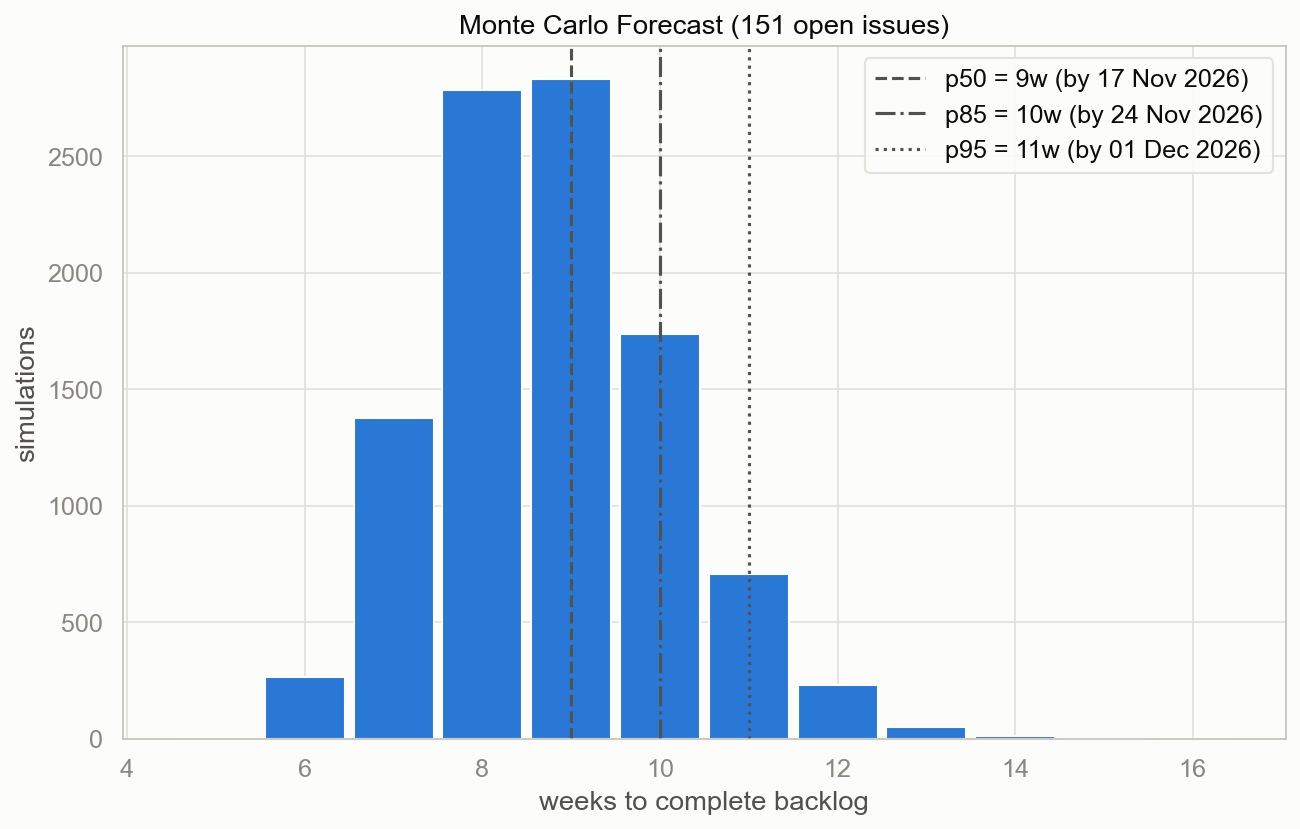
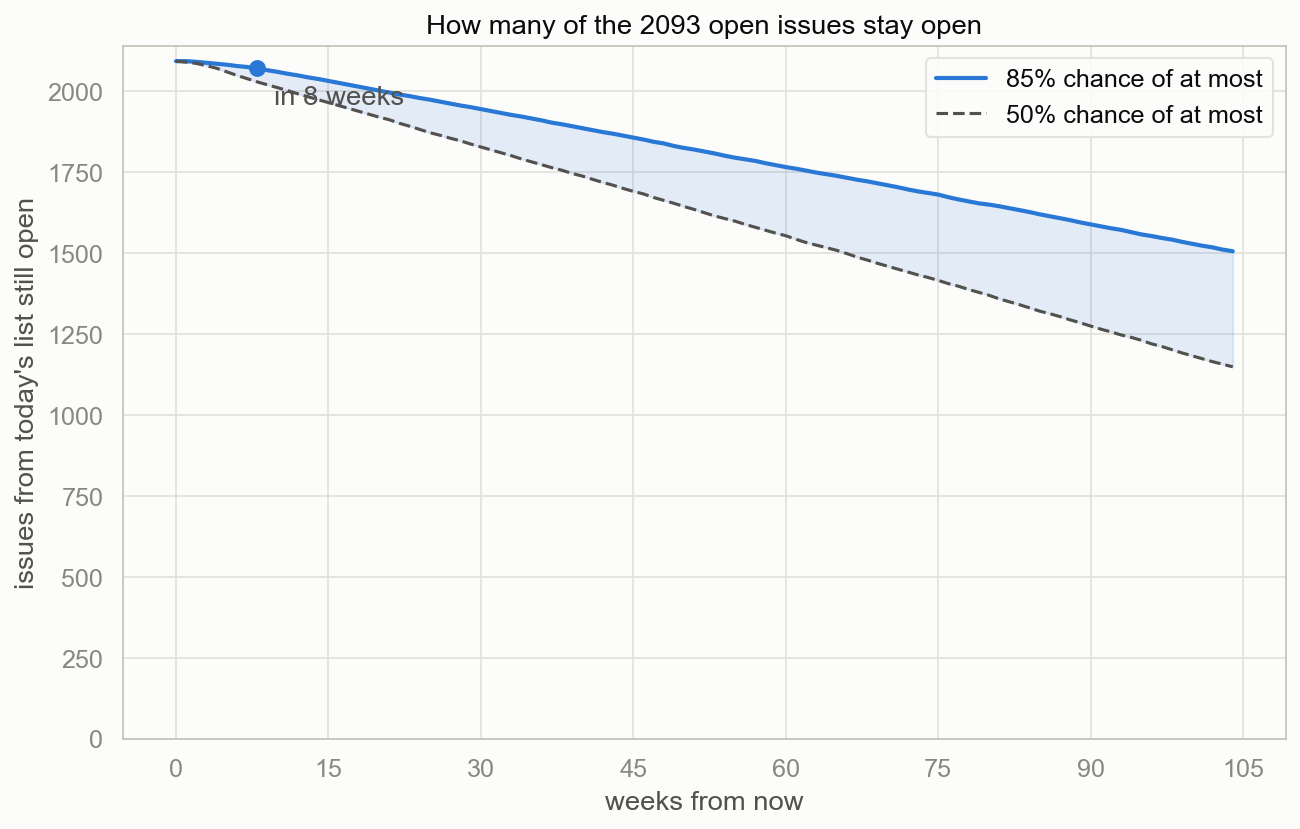
docs(readme): lead with the trusted forecast, method behind details

diff --git a/README.md b/README.md
@@ -1,79 +1,41 @@
-# Metrics - Jira analytics for engineering teams
+# Metrics - a Jira delivery forecast that honestly says how far you can trust it
 
 [![Build Status](https://github.com/smirnoffmg/metrics/actions/workflows/test.yaml/badge.svg)](https://github.com/smirnoffmg/metrics/actions)
-[![License](https://img.shields.io/badge/license-MIT-blue.svg)](LICENSE)
+[![License](https://img.shields.io/badge/license-GPL--3.0-blue.svg)](LICENSE)
 
-See how work really flows through your team - straight from Jira, in one command.
+Most forecasts give you a date. This one tells you how much of your open work gets done, replays that same promise from every past Monday, and says in plain words how often it came true - before you commit to it. Straight from Jira, in one command, into one self-contained `report.html` you can send to anyone. No servers, nothing leaves your machine.
 
-**Metrics** pulls your issues and turns them into clear charts plus a single shareable report:
+## What it tells you
 
-- **How fast are we?** Lead time, cycle time, and a percentile view - "85% of our tickets finish within N days"
-- **When will it be done?** A Monte Carlo forecast for your open backlog, replayed against the past to show how often its promises came true
-- **Where does work get stuck?** Time per status, aging work-in-progress, and a cumulative flow diagram
-- **Who carries the load?** Time in flight per person and how often tickets change hands
-- **How much do we ship?** Weekly throughput and how often tickets bounce back to testing
+Every quote below is copied from the report on two years of the public [Hibernate ORM](https://hibernate.atlassian.net) and [Apache Kafka](https://issues.apache.org/jira) trackers.
 
-Everything lands in `output/` as PNG charts and one self-contained `report.html` you can send to anyone - no servers, no setup, nothing leaves your machine. The report is interactive: headline numbers with trend arrows, hover any dot for the ticket details, click it to open the issue in Jira, and a ready-made list of the longest-waiting tickets.
+**1. How much of our open work gets done, and when?**
 
-## Real examples
+> At least 22 of the 2093 open issues will be done in 8 weeks, by 28 Nov 2026 (85% chance).
+>
+> *- Hibernate*
 
-Every chart below comes from real public projects - the [Hibernate ORM](https://hibernate.atlassian.net) and [Apache Kafka](https://issues.apache.org/jira) issue trackers.
+The promise counts only issues open today. New work keeps arriving and takes its share of the team, so the forecast scales throughput by the share of past finishes that went to issues already open, measured over the same number of weeks.
 
-### When will it be done?
+**2. Can I trust that number?**
 
-**Monte Carlo forecast.** 151 open Hibernate issues at the pace of the last 12 finished weeks: half the simulations clear them by 17 November 2026, 85% by 24 November - real dates, not story points.
+> Past 8-week promises like this one held only 9 of 11 times, fewer than the 85% promised.
+>
+> Treat the number as optimistic and commit to fewer, but don't promise a date for all of it; scope a release with --forecast-jql.
+>
+> *- Hibernate*
 
-![Monte Carlo forecast](docs/images/forecast.png)
+The same forecast is replayed from every past Monday, from only what Jira showed that day, and checked against what happened next. "9 of 11" counts promises whose outcomes don't overlap, so each one is real evidence. When the promises held as often as promised, the report says to commit to the number.
 
-**Can you trust that date?** The same forecast, replayed from every Monday of two years of Hibernate with only what Jira showed that day. First it picks how many recent weeks to draw from: over 8 weeks, forecasts from the last 26 weeks scored a 12% lower CRPS than from the last 12, and the last 52 were no better than 26, so the report forecasts from 26. The backlog forecast promises 30 weeks, but 30-week forecasts made a week apart share 29 weeks of outcome, so two years hold just 3 independent ones - too few to judge. The report judges the longest horizon with enough evidence instead: over 8 weeks, 83 of 90 "85% chance" promises came true (12 independent outcomes), cautious rather than optimistic. Nor would correcting forecasts by their past errors help: their errors drift over time (y-plot p < 0.001 over 4 weeks), since Hibernate's pace changes. Kafka, whose throughput halved over the same two years, forecasts best when recent weeks weigh most (a half-life of 4 weeks, 8% lower CRPS over 8 weeks than the last 12 weeks), which also leaves no sign of drift in its errors - yet only 55% of its 8-week promises come true, and the report flags that in red: a steady bias, too narrow more than too high. Recalibrated by their past errors, its 8-week forecasts keep 78% of their promises, yet score a worse CRPS, so the report leaves the forecast uncorrected.
+**3. Will the open list ever clear?**
 
-![Forecast backtest](docs/images/forecast_backtest.png)
+> About 35.4 issues arrive and 23.5 get done a week; more arrive than get done.
+>
+> Not all 5283 open issues will be done within 2 years at this pace; no past date like it has come due to check it.
+>
+> *- Kafka*
 
-**Weekly throughput.** How many issues get finished each week, with the overall trend. The week still in progress is left out, and quiet weeks count as zero.
-
-![Throughput](docs/images/throughput.png)
-
-### How fast do tickets finish?
-
-**Cycle time, ticket by ticket.** Every dot is a Hibernate issue finished in the last three months - the last 4 weeks in blue, the slowest ticket named (HHH-3007, finished after more than twelve years), and the "slow zone" beyond p85 tinted red.
-
-![Cycle time per issue](docs/images/cycle_time_scatter.png)
-
-**Lead time.** From the moment a ticket is created to the moment it's done. The slowest 5% get a grey bar of their own instead of squeezing everything else into the first one.
-
-![Lead time](docs/images/lead_time.png)
-
-**Cycle time distribution.** The same story as the scatterplot, as a histogram with p50 and p85 marked.
-
-![Cycle time](docs/images/cycle_time.png)
-
-### Where does work get stuck?
-
-**Cumulative flow.** Two months of Hibernate: each band is a status, widening bands are bottlenecks - and notable events annotate themselves, like 59 issues leaving "Release pending" in one day.
-
-![Cumulative flow diagram](docs/images/cumulative_flow.png)
-
-**Aging work-in-progress.** Started, unfinished Kafka issues by how long they've sat in their current status - anything above the dashed line has been waiting longer than 85% of past work ever did.
-
-![Aging work-in-progress](docs/images/aging_wip.png)
-
-**Median time per status.** Where a ticket's calendar time actually goes.
-
-![Median hours per status](docs/images/cumulative_queue_time.png)
-
-**Days in each status.** Every status of the workflow at a glance, one histogram each, the longest waits in grey.
-
-![Queue time](docs/images/queue_time.png)
-
-### How does the team work?
-
-**Who carries the work.** Time in flight per assignee (names anonymized here) and how often tickets change hands.
-
-![Assignee load](docs/images/assignee_load.png)
-
-**Rework.** How many times tickets came back to review - each return is work done twice.
-
-![Returns to review](docs/images/return_to_testing.png)
+When arrivals keep up with finishes, a list may never return to zero, so the report would rather say "not within 2 years" than invent a date. For a date worth promising, forecast a release or an epic with `--forecast-jql`.
 
 ## Try it in one minute - no account needed
 
@@ -83,16 +45,19 @@ Point it at any public Jira, like Hibernate's:
 uv sync
 uv run python -m metrics --anonymous \
   --jira-server https://hibernate.atlassian.net \
-  --jira-jql 'project = HHH AND (resolved >= -90d OR resolution = Unresolved AND updated >= -90d)' \
+  --jira-jql 'project = HHH AND (resolved >= -365d OR resolution = Unresolved)' \
   --testing-statuses "In review, Waiting for review"
 
 open output/report.html
 ```
 
+Fetch a year of history: the replay needs it to measure how much of the work goes to issues already open, and to have enough past promises to judge. With less, the report says so - the share goes unmeasured, and too few past promises leave the forecast unchecked.
+
 ## Get started with your own Jira
 
 ```sh
-uv run python -m metrics --jira-server https://your-jira --jira-token <token> --jira-jql 'project=MYPROJ'
+uv run python -m metrics --jira-server https://your-jira --jira-token <token> \
+  --jira-jql 'project = MYPROJ AND (resolved >= -365d OR resolution = Unresolved)'
 ```
 
 Then open `output/report.html`.
@@ -100,20 +65,99 @@ Then open `output/report.html`.
 - **Jira Cloud:** also pass `--jira-email you@company.com` together with an API token.
 - **Jira Server / Data Center:** just a personal access token, no email needed.
 - **Public instance?** `--anonymous` needs no credentials at all and figures out Cloud vs Server by itself.
+- **When will this release or epic be done?** Name its issues with `--forecast-jql 'fixVersion = "9.0"'`. With enough history it is forecast from the release's own past finishes, which already leave out the time the team spent on other work, and replayed like the main forecast. If you'd rather state how much of the team works on it, `--forecast-focus 0.5` forecasts at half the team's throughput; the report marks that as an assumption it cannot check.
 - **Your workflow ends differently?** Tell it what "finished" means, e.g. `--done-statuses "Resolved, Shipped"`. By default Jira's own status categories decide: statuses in the Done category finish an issue, statuses in To Do are backlog.
-- **Dropped work isn't delivery.** Statuses like `--discarded-statuses "Rejected, Duplicate"` (default: cancelled, canceled, won't do) count neither as throughput nor as open backlog. The same goes for issues closed with a resolution like Won't Fix or Duplicate - set your own with `--discarded-resolutions "Won't Fix, Out of scope"`.
+- **Dropped work isn't delivery.** Statuses like `--discarded-statuses "Rejected, Duplicate"` (default: cancelled, canceled, won't do) count neither as throughput nor as open work. The same goes for issues closed with a resolution like Won't Fix or Duplicate - set your own with `--discarded-resolutions "Won't Fix, Out of scope"`.
 - **Cycle time starts at commitment, not at triage.** It runs from the moment an issue first leaves the backlog; by default, when it first leaves Jira's To Do category; name your pre-work statuses yourself with `--backlog-statuses "Open, Ready"`. Issues closed straight from the backlog have a lead time but no cycle time.
 - **QA has its own name?** Same for the rework metric, e.g. `--testing-statuses "In review, QA"` (default: testing).
-- **Curious how much time is real work vs waiting?** Tell it where work happens, e.g. `--active-statuses "In Progress, In Development"` (default: in progress) - that powers the flow-efficiency number in the report: the share of cycle time spent in those statuses, so backlog waiting before work starts doesn't count.
-- **When will this release or epic be done?** Name its issues with `--forecast-jql 'fixVersion = "9.0"'` and get its own forecast next to the backlog's, at the pace of your main query's issues. If the team spends only part of its time on it, say so: `--forecast-focus 0.5` forecasts at half the throughput.
-- **Can you trust the forecast?** The report replays it: from every past Monday it forecasts, from only what Jira showed then, how many issues the team would finish, and checks what actually happened - over 4 and 8 weeks and over the forecast's own horizon. "85% forecasts held" says how often the 85% promise came true; a u-plot per horizon shows whether past forecasts leaned optimistic, pessimistic or overconfident. Forecasts a week apart share most of their outcome, so each horizon also counts its independent outcomes; the tile judges the longest horizon with at least 10, and with none it states the count instead of a verdict. Beneath the table the report says whether forecast errors keep a steady bias (a u-plot test) or drift over time (a y-plot test, after Brocklehurst and Littlewood), tested on independent outcomes only. Drifting errors mean the team's pace changes. Steady but biased ones get the book's remedy tried: every past forecast is recalibrated by the u-plot of the forecasts whose outcomes were known by its Monday, and when that scores a better CRPS the forecast itself is recalibrated and its tile says so. Better calibration alone is not enough - Fenton and Pfleeger also want the corrected forecasts to win on a global score. Status, resolution and assignee are rolled back through each issue's changelog, so reopened work counts as it stood then. It needs history: fetch a year or more (`resolved >= -365d OR resolution = Unresolved`).
-- **Forecasts from the pace that predicts your team best.** The same replay picks which past weeks the forecast draws from - the last 12, 26 or 52 weeks equally, or every week weighted by recency with a half-life of 4 or 8 weeks - by the lowest CRPS, a score of how far past forecasts landed from what happened, at the longest short horizon with at least 10 independent outcomes. Paces within 5% of the best count as equal and the earlier in that list wins, so a year-old or a weighted pace needs a real edge; with too little history the forecast keeps the last 12 weeks. The report's table shows every pace's scores.
-- **How does delivery look?** Point it at the GitLab project behind the work, `--gitlab-project group/app --gitlab-token <token>`, and the report adds DORA's four keys: deploys per week, change lead time from commit to deploy, change fail rate and recovery time. Each release tag is a deploy (`--deploy-tag-pattern`, default `^v?\d+\.\d+\.\d+$`); a deploy failed when the next one is a hotfix (a merge request labelled `hotfix` or from a `hotfix*` branch), a revert, or a rollback to an earlier tag's commit. Name your coding agents with `--agent-authors srv_bot,agent@example.com` to compare their changes with people's.
+- **Curious how much time is real work vs waiting?** Tell it where work happens, e.g. `--active-statuses "In Progress, In Development"` (default: in progress) - that powers the flow-efficiency number: the share of cycle time spent in those statuses.
 - **Iterating on settings?** Fetch once with `--save-raw issues.json`, then rebuild the report as often as you like with `--from-raw issues.json` - no network, seconds instead of minutes, and the same numbers every time, since time-based metrics are computed as of the fetch.
 - Prefer environment variables or a config file? `uv run python -m metrics --help` shows every option.
 
-Tip: let your JQL include both finished and still-open issues - the forecast and aging charts need the open ones. Select finished issues by when they were resolved, e.g. `resolved >= -90d OR resolution = Unresolved`: a window on `created` leaves out the old issues your team is finishing now and understates throughput, and one on `updated` pulls in issues closed years ago.
+Tip: let your JQL include both finished and still-open issues - the forecast and aging charts need the open ones. Select finished issues by when they were resolved: a window on `created` leaves out the old issues your team is finishing now and understates throughput, and one on `updated` pulls in issues closed years ago.
+
+## Charts that explain the forecast
+
+**The forecast as a fan.** How many of today's open issues stay open, week by week: the dashed line is the even bet, the solid line the 85% one, and the dot marks the horizon the replay could check. Beyond it the fan is extrapolated.
+
+![Forecast fan](docs/images/forecast.png)
+
+**Cumulative flow: arrivals vs departures.** Each band is a status. The top edge climbs with every issue that arrives, the done bands with every issue that leaves; while the open bands beneath them keep their height, the open list isn't shrinking, whatever the team's pace. Notable events annotate themselves, like a release closing a pile of issues in one day.
+
+![Cumulative flow diagram](docs/images/cumulative_flow.png)
+
+**Aging work-in-progress.** Started, unfinished Kafka issues by how long they've sat in their current status - anything above the dashed line has been waiting longer than 85% of past work ever did. The report also lists the longest-waiting tickets.
+
+![Aging work-in-progress](docs/images/aging_wip.png)
+
+**Cycle time, ticket by ticket.** Every dot is a finished Hibernate issue - the most recent in blue, the slowest named, and the "slow zone" beyond p85 tinted red. Hover a dot in the report for the ticket, click it to open it in Jira.
+
+![Cycle time per issue](docs/images/cycle_time_scatter.png)
+
+**Cycle time distribution.** The same story as a histogram with p50 and p85 marked.
+
+![Cycle time](docs/images/cycle_time.png)
+
+**Weekly throughput.** How many issues get finished each week, with the trend. The week still in progress is left out, and quiet weeks count as zero.
+
+![Throughput](docs/images/throughput.png)
+
+## Also in the report
+
+**Handoffs.** How often an issue changes hands before it's done - a property of the process, not of a person.
+
+![Handoffs](docs/images/handoffs.png)
+
+**Lead time.** From the moment a ticket is created to the moment it's done.
+
+![Lead time](docs/images/lead_time.png)
+
+**Where a ticket's calendar time goes.** The median time per status, and every status's own histogram.
+
+![Median hours per status](docs/images/cumulative_queue_time.png)
+
+![Queue time](docs/images/queue_time.png)
+
+**Rework.** How many times tickets came back to review - each return is work done twice.
+
+![Returns to review](docs/images/return_to_testing.png)
+
+**Delivery (DORA).** Point it at the GitLab project behind the work, `--gitlab-project group/app --gitlab-token <token>`, and the report adds DORA's four keys: deploys per week, change lead time from commit to deploy, change fail rate and recovery time. Each release tag is a deploy (`--deploy-tag-pattern`, default `^v?\d+\.\d+\.\d+$`); a deploy failed when the next one is a hotfix (a merge request labelled `hotfix` or from a `hotfix*` branch), a revert, or a rollback to an earlier tag's commit. Name your coding agents with `--agent-authors srv_bot,agent@example.com` to compare their changes with people's.
+
+## What it deliberately does not measure: individuals
+
+The report names no one. Data on individuals works only as self-assessment that management never sees, and "if ever the data is used against even one individual, the entire data collection scheme will come to an abrupt halt" (DeMarco & Lister, *Peopleware*, 2nd ed., с. 61, PDF 74). They list "performance measurement in almost any form" among the things that kill teams (с. 183–184, PDF 196–197). A forecast also needs honest statuses in Jira: once people are measured by them, they stop being honest. So the report shows the system - flow, queues, handoffs - and ends with a reminder: these numbers describe the system; don't turn them into targets.
+
+<details>
+<summary>How the forecast is made and checked</summary>
+
+### The forecast
+
+- **What it predicts.** Of the issues open today, how many get done in the next H weeks, at 85% and at 50%. Each simulation draws past weeks' throughput and a share of finishes that went to issues already open, taken from past H-week windows. The headline promise is the 15th percentile of the done count.
+- **Why a share.** Work is not served first-in, first-out: urgent and short jobs move to the front (Reinertsen, *The Principles of Product Development Flow*, с. 70, PDF 84), so new arrivals take part of every week. A queue's size is only the balance of arrivals and departures (с. 71–72, PDF 85–86), and with both random it may stay far from zero for long periods (Q15, the Diffusion Principle, с. 76–78, PDF 90–92). Assuming all throughput goes to today's list is the old belief, and the replay shows what it costs: on Hibernate it held 2 of 11 independent 8-week promises (14% of 83 past forecasts), against 9 of 11 with the share.
+- **Fixed date, variable scope.** "How much by when" is the question a forecast can answer and check; "when will all of it be done" depends on work not yet asked for (Beck, *Extreme Programming Explained*, 1st ed., PDF 23). The clear date is still shown, from the same simulation, capped at 2 years.
+
+### The replay
+
+- **Only what was known then.** From every past Monday, each issue's status, resolution and assignee are rolled back through its changelog, so the replay sees reopened and not-yet-created work as it stood that day. A prediction system is valid only if it makes accurate predictions of what it claims to predict, established by comparing it with known data in its environment (Fenton & Pfleeger, *Software Metrics: A Rigorous Approach*, с. 104–105, PDF 117–118). So the replay checks the very forecast the headline shows, with the 85% promise as the acceptance range stated in advance.
+- **Independent outcomes.** Forecasts made a week apart share most of their outcome. Each horizon also counts the promises whose intervals don't overlap; the verdict judges the longest horizon with at least 10 of them, and with fewer it states the count instead of a verdict. "Held 9 of 11" counts those independent promises; the table beside it also gives the share of all past forecasts.
+- **Pace.** The same replay picks which past weeks the forecast draws from - the last 12, 26 or 52 weeks equally, or every week weighted by recency with a half-life of 4 or 8 weeks - by the lowest CRPS, a score of how far past forecasts landed from what happened. Paces within 5% of the best count as equal and the earlier in that list wins. Hibernate forecasts from the last 26 weeks, Kafka from a half-life of 4 weeks.
+- **Bias and drift.** A u-plot per horizon shows whether past forecasts leaned optimistic, pessimistic or too narrow; a y-plot test (after Brocklehurst and Littlewood) shows whether their errors drift over time, tested on independent outcomes only. On Hibernate, 4-week forecast errors drift over time (y-plot p = 0.010): the team's pace changes.
+- **Recalibration.** When errors keep a steady bias but don't drift, the book's remedy is tried: every past forecast is recalibrated by the u-plot of the forecasts whose outcomes were known by its Monday. It is used only when it also wins on a global score - CRPS standing in for the prequential likelihood Fenton and Pfleeger ask for - and the tile then says so.
+- **The naive baseline.** A clever predictor may barely beat a naive one (Fenton & Pfleeger, Example 3.17, с. 105). So the table shows "all throughput to today's list" next to the model, at every horizon.
+- **Clear dates.** Past "all done by D" promises are judged only once D has passed, and only when their intervals don't overlap. On both trackers: 0 judged; all 90 past promises fall beyond the data so far.
+
+![Forecast backtest](docs/images/forecast_backtest.png)
+
+### Assumptions
+
+- The past share of finishes going to issues already open carries over into the next H weeks.
+- Dates beyond the checked horizon are extrapolated, and lean optimistic: the share falls as the horizon grows.
+- Discarded issues are not "done": they leave the list but don't count toward the promise.
+- Membership in a `--forecast-jql` scope is not rolled back: the replay takes today's scope as if it had been the scope on every past Monday.
+
+</details>
 
 ## License
 
-GPL - see [LICENSE](LICENSE).
+GPL v3 - see [LICENSE](LICENSE).
